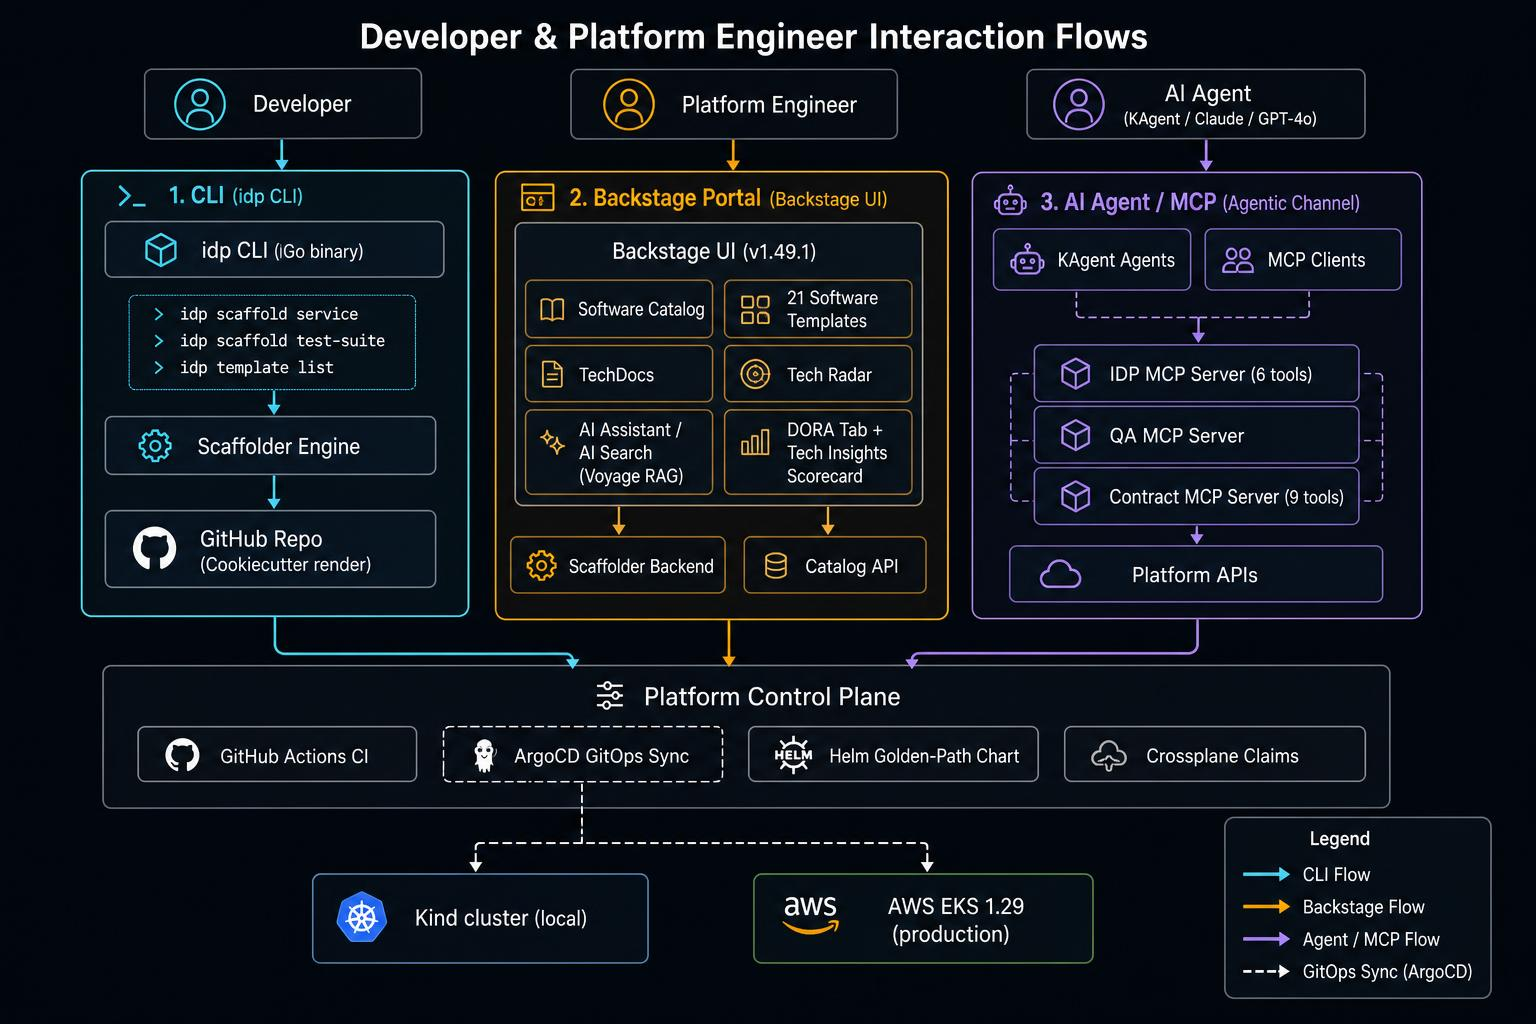
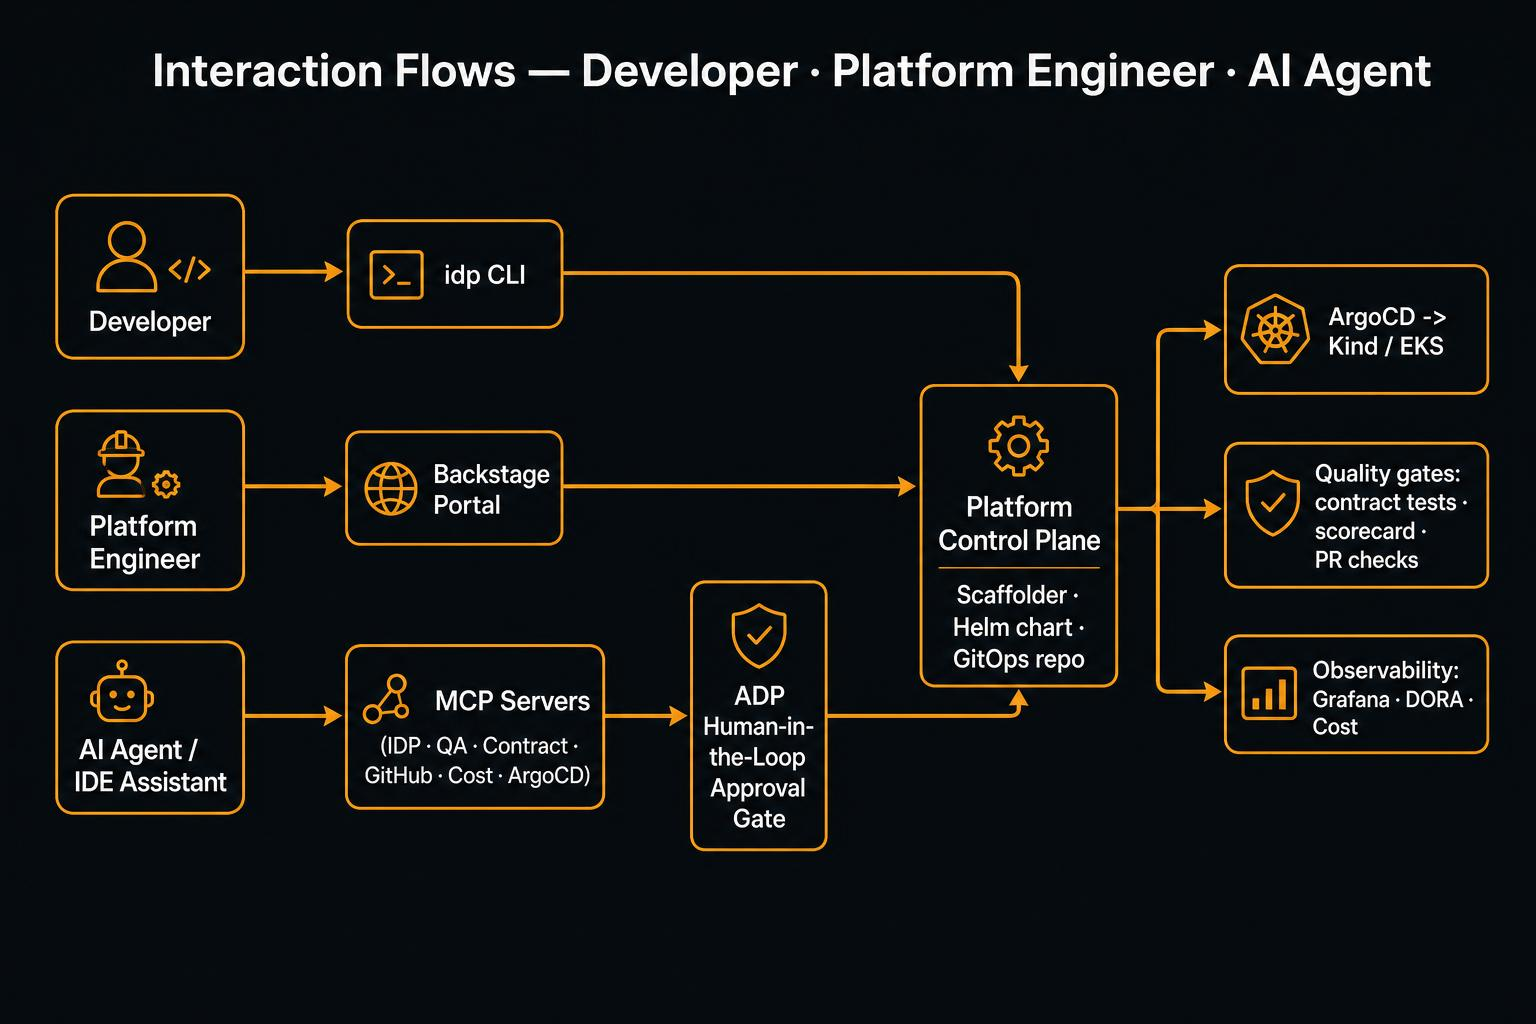
docs: refresh architecture diagrams and add the V2 multi-region diagram
Replaces the three existing diagrams with updated renders and adds a fourth
that had no counterpart in the repo.

  - platform-architecture.jpg — 8-layer view, now current: Backstage v1.49.1,
    ArgoCD v3.4, 61 scaffolder templates, ADP human-in-the-loop gate.
  - aws-architecture.jpg, interaction-flows.jpg — refreshed; every existing
    reference picks these up with no markup change.
  - aws-architecture-v2.jpg — NEW. Active-standby eu-central-1 (primary) /
    us-east-1 (warm standby): Route 53 health-check failover, Global
    Accelerator, Aurora Global, DynamoDB Global Tables V2, S3 MRAP + CRR, MSK
    cross-region replication, KMS multi-region keys, Transit Gateway peering,
    ArgoCD hub-spoke, and the Bronze/Silver/Gold DR tiers.

The V2 diagram is referenced from docs/multi-region.md (above the topology
table it illustrates) and from a new README subsection under AWS Architecture,
which states the opt-in nature and points at bootstrap-multiregion.sh so the
image is not mistaken for the single-region default.

All 8 image links across README.md, docs/architecture.md and
docs/multi-region.md verified to resolve.

diff --git a/README.md b/README.md
@@ -132,6 +132,15 @@ Written automatically to `/etc/hosts` by `bootstrap-local.sh` (you may need `sud
 
 Full layer-by-layer breakdown: [docs/architecture.md](docs/architecture.md).
 
+### AWS Architecture — Multi-Region (V2, opt-in)
+
+Active-standby across eu-central-1 (primary) and us-east-1 (warm standby), deployed with
+`./scripts/bootstrap-multiregion.sh`. Single-region setups are unaffected.
+
+![AWS V2 — Active-Standby Multi-Region](docs/assets/aws-architecture-v2.jpg)
+
+Topology, DR tiers, and the six rollout phases: [docs/multi-region.md](docs/multi-region.md).
+
 ## How It Works — Interaction Flows
 
 ![Interaction Flows](docs/assets/interaction-flows.jpg)

diff --git a/docs/multi-region.md b/docs/multi-region.md
@@ -6,6 +6,8 @@
 > are fully unaffected — no changes to `bootstrap-local.sh` or `bootstrap.sh` are required.
 > To deploy multi-region, use `./scripts/bootstrap-multiregion.sh` instead of `bootstrap.sh`.
 
+![AWS V2 — Active-Standby Multi-Region](assets/aws-architecture-v2.jpg)
+
 ## Topology
 
 | Dimension | Value |
